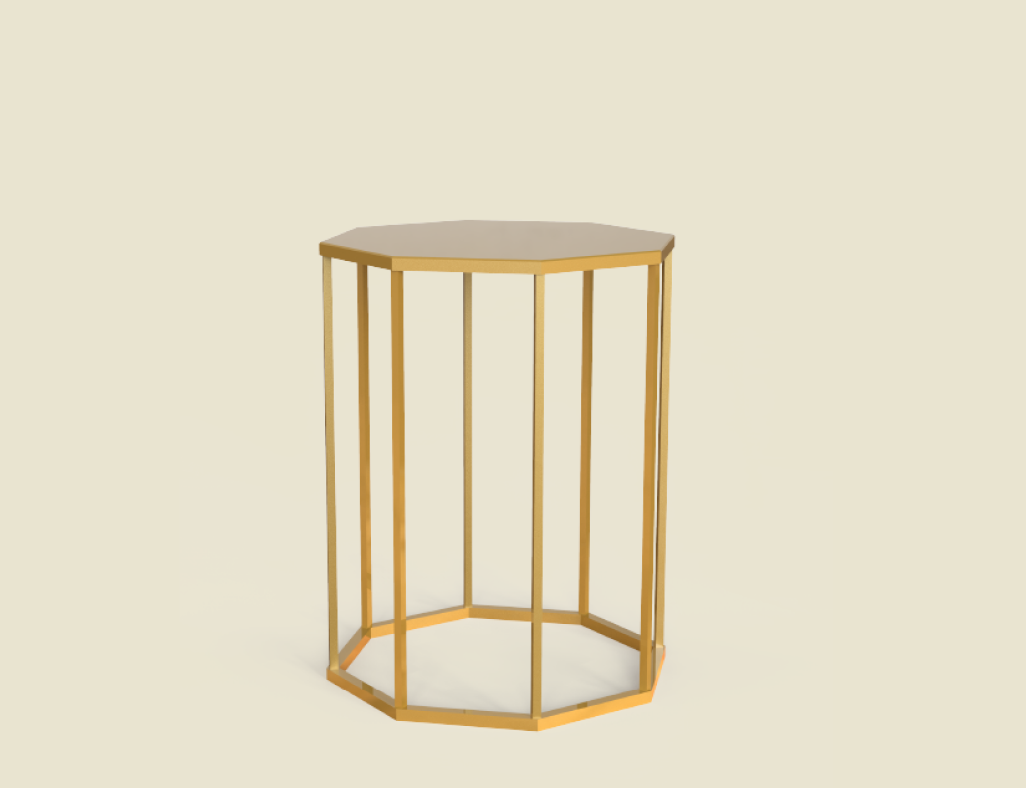
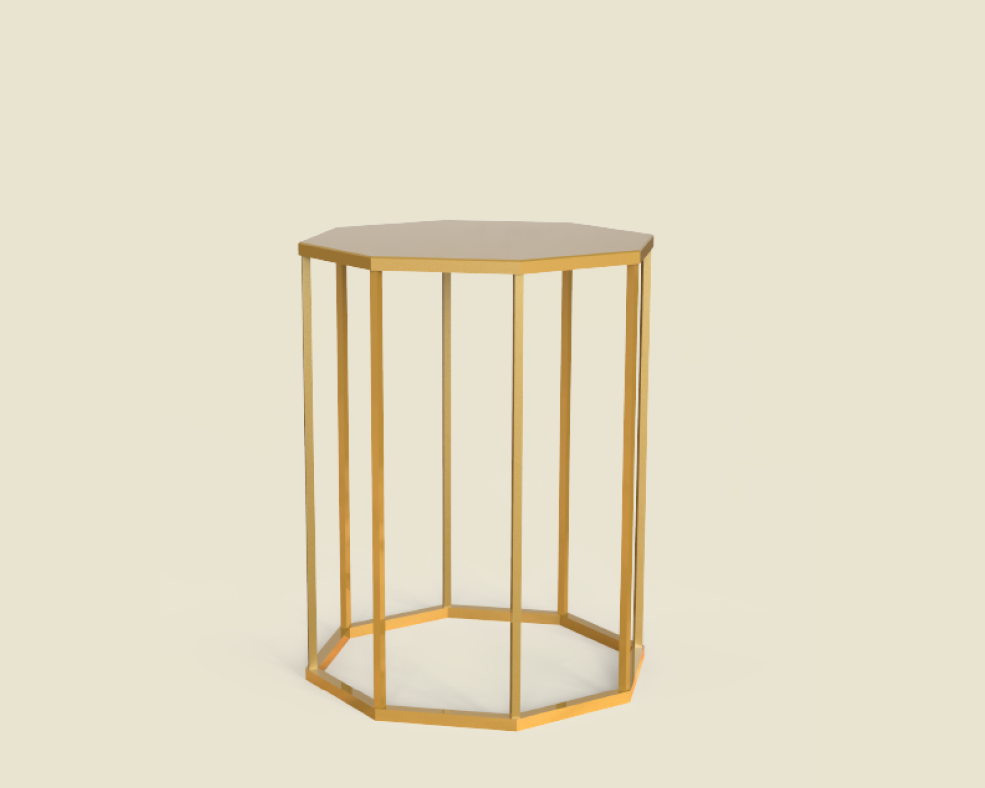
Error movimiento horizontal

diff --git a/index.html b/index.html
@@ -146,7 +146,7 @@
                     </article>
                 </div>
             </div>
-            <div class="row max-auto">
+            <div class="row mx-auto">
                 <div class="col-sm-8 col-md-6 col-xl-6 col-10 mx-auto">
                     <article class="producto__candelabro">
                         <h2 data-aos="fade-up">
